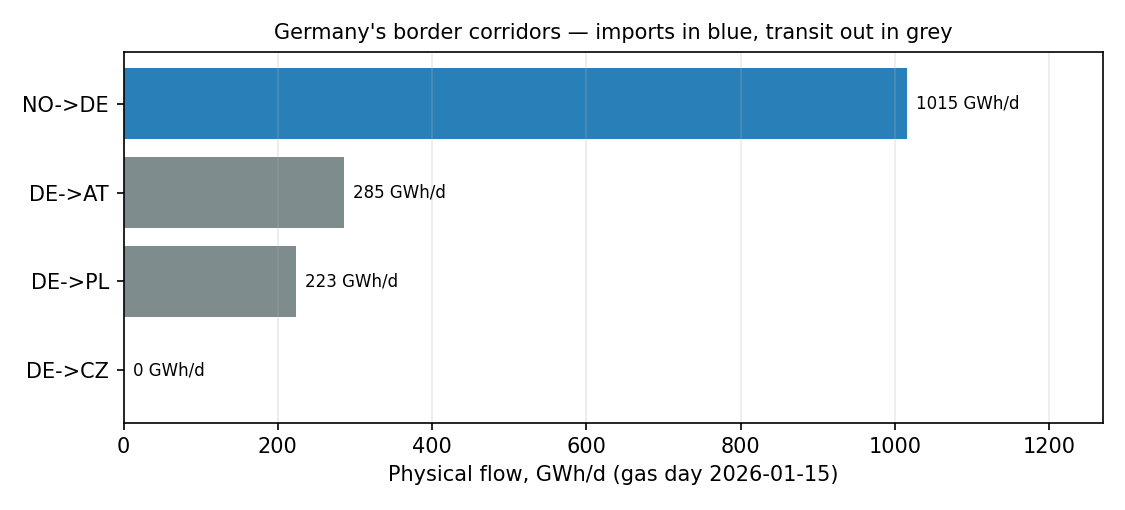
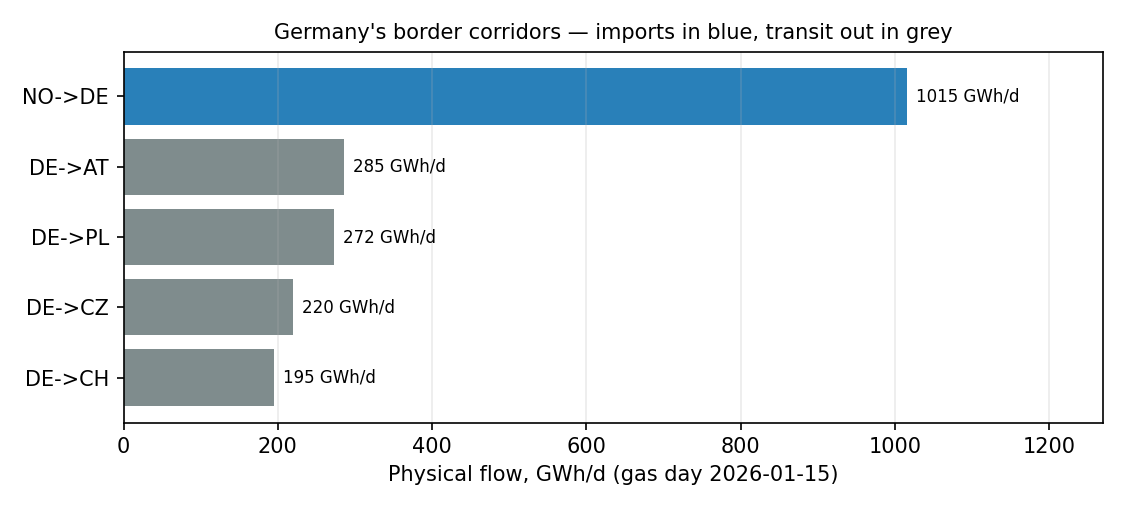
Correct the network layer: fetch and verify flow for every German border point (VIP Brandov 220, GCP/ONTRAS 100% firm, Germany-CH 195 were mislabelled as no-flow); rebuild map, corridors, RESULTS and RESEARCH; Germany reframed as a re-export hub

Changed region(s): [[0.0311, 0.2353, 0.8089, 0.7941], [0.8089, 0.1765, 0.9022, 0.2353], [0.0, 0.1765, 0.0933, 0.2353]]

diff --git a/src/network_chart.py b/src/network_chart.py
@@ -37,64 +37,31 @@ def _declutter(ys, min_gap, lo, hi):
 
 def draw():
     snap = entsog.snapshot()
-    fig, ax = plt.subplots(figsize=(11, 8.5))
+    fig, ax = plt.subplots(figsize=(10.5, 8))
 
-    # ---- unmetered interconnection points ----
-    # A leader line is only used where a point is crowded (another point within CROWD
-    # units); isolated points that have room are labelled directly, no line.
-    topo = snap["topology"]
-    all_pts = [(q["x"], q["y"]) for q in topo] + [(q["x"], q["y"]) for q in snap["points"]]
-
-    def _crowded(px, py):
-        near = 0
-        for qx, qy in all_pts:
-            if (qx, qy) == (px, py):
-                continue
-            if abs(qx - px) < CROWD and abs(qy - py) < CROWD:
-                near += 1
-        return near > 0
-
-    for q in topo:
-        ax.scatter(q["x"], q["y"], s=24, facecolor="none", edgecolor="#b0b0b0",
-                   linewidth=.9, zorder=2)
-
-    crowded = [q for q in topo if _crowded(q["x"], q["y"])]
-    loose = [q for q in topo if not _crowded(q["x"], q["y"])]
-
-    # isolated points: label in place, no leader line
-    for q in loose:
-        ax.annotate(q["label"], xy=(q["x"], q["y"]), xytext=(6, -2),
-                    textcoords="offset points", fontsize=6.5, color="#7a7a7a", va="center")
-
-    # crowded points: pull labels to a decluttered column on the nearer side, with a line
-    left = sorted([q for q in crowded if q["x"] <= -25], key=lambda q: q["y"])
-    right = sorted([q for q in crowded if q["x"] > -25], key=lambda q: q["y"])
-    ly = _declutter([q["y"] for q in left], 3.6, -46, 16)
-    ry = _declutter([q["y"] for q in right], 3.6, -46, 16)
-    for grp, ys, lx, ha in ((left, ly, -60.5, "right"), (right, ry, 6.5, "left")):
-        for q, y in zip(grp, ys):
-            ax.annotate(q["label"], xy=(q["x"], q["y"]), xytext=(lx, y),
-                        fontsize=6.5, color="#7a7a7a", va="center", ha=ha,
-                        arrowprops=dict(arrowstyle="-", lw=0.5, color="#c8c8c8",
-                                        shrinkA=0, shrinkB=2))
-
-    # ---- metered points: coloured, sized by flow, with the flow arrow ----
-    for p in snap["points"]:
+    pts = snap["points"]
+    # spread labels vertically where points sit on top of each other
+    ys = _declutter([p["y"] for p in pts], 3.2, -46, 16)
+    for p, ytxt in zip(pts, ys):
         st = N.classify(p)
         flow = p["physical_flow"] / 1e6
-        ax.scatter(p["x"], p["y"], s=45 + flow * 1.1, color=COL[st], alpha=.9,
+        ax.scatter(p["x"], p["y"], s=55 + flow * 1.1, color=COL[st], alpha=.9,
                    edgecolor="white", linewidth=1.2, zorder=4)
         u = N.utilisation(p)
         if flow > 0:
-            lab = "%s\n%.0f GWh/d%s" % (p["label"], flow,
-                                        ("  ·  %.0f%% of firm" % (u * 100)) if u else "")
+            head = "%s  →%s\n%.0f GWh/d%s" % (p["label"], p["to"], flow,
+                    ("  ·  %.0f%% of firm" % (u * 100)) if u else "  ·  no firm published")
         else:
-            lab = "%s\nidle — 0 GWh/d" % p["label"]     # do not imply a flow it does not carry
-        ax.annotate(lab, (p["x"], p["y"]), fontsize=8, fontweight="bold",
-                    xytext=OFFSET.get(p["label"], (9, 6)),
-                    textcoords="offset points", zorder=6,
-                    bbox=dict(boxstyle="round,pad=0.15", fc="white", ec="none", alpha=0.8))
-        # flow arrow only where gas actually moves
+            head = "%s  →%s\nidle — 0 GWh/d" % (p["label"], p["to"])
+        # label to the side, with a short leader line only when it had to be nudged
+        dx = 12 if p["x"] > -30 else 12
+        ax.annotate(head, xy=(p["x"], p["y"]),
+                    xytext=(p["x"] + (2.5 if p["x"] > -30 else 2.5), ytxt),
+                    fontsize=7.5, fontweight="bold", va="center",
+                    bbox=dict(boxstyle="round,pad=0.15", fc="white", ec="none", alpha=0.8),
+                    arrowprops=dict(arrowstyle="-", lw=0.5, color="#bbbbbb",
+                                    shrinkA=0, shrinkB=3) if abs(ytxt - p["y"]) > 1.5 else None,
+                    zorder=6)
         if flow > 0:
             ax.annotate("", xy=(p["x"], p["y"]),
                         xytext=(p["x"] - (7 if p["direction"] == "entry" else -7), p["y"]),
@@ -102,17 +69,15 @@ def draw():
                         zorder=3)
 
     ax.set_title("Germany's gas border on the peak winter gas day %s\n"
-                 "ENTSOG Transparency Platform — physical flow vs firm technical capacity"
-                 % snap["_gas_day"], fontsize=11)
+                 "ENTSOG Transparency Platform — physical flow vs firm technical capacity "
+                 "(every point verified)" % snap["_gas_day"], fontsize=11)
     ax.set_xlabel("← west          ENTSOG schematic map coordinates          east →", fontsize=8)
     ax.set_ylabel("← south                                      north →", fontsize=8)
     handles = [plt.Line2D([], [], marker="o", ls="", color=c, label=k, markersize=8)
                for k, c in COL.items()]
-    handles.append(plt.Line2D([], [], marker="o", ls="", mfc="none", mec="#b0b0b0",
-                              label="other point (no metered flow)", markersize=8))
-    ax.legend(handles=handles, fontsize=7.5, loc="center left", bbox_to_anchor=(0.30, 0.60),
+    ax.legend(handles=handles, fontsize=7.5, loc="center left", bbox_to_anchor=(0.02, 0.30),
               title="status", title_fontsize=8, framealpha=0.9)
-    ax.grid(alpha=.2); ax.set_xlim(-62, 12); ax.set_ylim(-46, 18)
+    ax.grid(alpha=.2); ax.set_xlim(-56, 14); ax.set_ylim(-46, 16)
     fig.tight_layout(); fig.savefig(os.path.join(OUT, "network_map.png"), dpi=150); plt.close(fig)
 
 

diff --git a/src/report.py b/src/report.py
@@ -183,11 +183,18 @@ def main():
              "firm capacity — 162%% and 139%% respectively. That extra volume is interruptible or "
              "additional capacity: contractually curtailable, not guaranteed. The single-corridor "
              "concentration is the bottleneck, not the pipe diameter.\n" % c["NO->DE"])
-    L.append("Meanwhile **VIP Waidhaus sits at zero** — the Czech route that used to carry Russian gas "
-             "into Bavaria is idle, and **Mallnow now runs west-to-east at 86% of firm**, exporting to "
-             "Poland instead of importing from it. The map of 2019 has been redrawn: the load has moved "
-             "from the eastern border to the North Sea coast, and the eastern points are now transit and "
-             "reverse-flow assets.\n")
+    # export corridors, computed from the same data
+    exp = {k: v for k, v in c.items() if k.startswith("DE->")}
+    exp_line = ", ".join("**%s %.0f GWh/d**" % (k.replace("DE->", "to "), v)
+                         for k, v in sorted(exp.items(), key=lambda kv: -kv[1]))
+    L.append("The same day the map of 2019 is visibly redrawn on the export side: %s. **Mallnow now "
+             "runs west-to-east** (exporting to Poland at 86%% of firm, no longer importing), and "
+             "**VIP Waidhaus — the old Russian route into Bavaria — sits at exactly zero**. But the "
+             "eastern border is not dead: **VIP Brandov still carries %.0f GWh/d into Czechia** and the "
+             "Polish ONTRAS point runs at its firm limit. Germany has turned from a Russian-gas "
+             "destination into a **hub that re-exports Norwegian and LNG-sourced gas** south and east — "
+             "which is exactly why its own import points run above firm.\n"
+             % (exp_line, [r for r in NW.table() if r["point"] == "VIP Brandov"][0]["flow_gwh_d"]))
 
     L.append("## 7. What this means for storage\n")
     L.append("- The swing above a flat baseline is what storage and flexible supply must cover. For the EU "

diff --git a/tests/test_adequacy.py b/tests/test_adequacy.py
@@ -252,10 +252,12 @@ def test_peak_withdrawal_rate_is_a_power_not_an_energy():
 import entsog as EG
 import network as NW
 
-def test_snapshot_has_both_metered_and_topology_points():
+def test_snapshot_points_are_all_verified():
     snap = EG.snapshot()
-    assert len(snap["points"]) >= 6 and len(snap["topology"]) >= 10
+    assert len(snap["points"]) >= 10          # every point has fetched flow AND firm capacity
     assert snap["_gas_day"] == "2026-01-15"
+    for p in snap["points"]:
+        assert "physical_flow" in p and "firm_technical" in p
 
 def test_point_direction_key_matches_entsog_format():
     assert EG.point_direction("DE-TSO-0009", "ITP-00080", "entry") == "DE-TSO-0009ITP-00080entry"
@@ -282,6 +284,8 @@ def test_norwegian_imports_dominate_the_winter_border():
     c = NW.corridors()
     assert max(c, key=c.get) == "NO->DE"
     assert c["NO->DE"] > 900                      # GWh/d on the peak winter gas day
+    # the Czech export corridor is active (VIP Brandov), not idle as a naive read suggests
+    assert c["DE->CZ"] > 150 and c["DE->CH"] > 150
 
 def test_norwegian_entry_points_run_beyond_firm_capacity():
     stressed = {r["point"] for r in NW.stressed()}

diff --git a/src/entsog.py b/src/entsog.py
@@ -51,7 +51,7 @@ def fetch_topology(from_country: str, to_country: str) -> list[dict]:
                           {"fromCountryKey": from_country, "toCountryKey": to_country}))
     except Exception:
         snap = snapshot()
-        return [p for p in snap["topology"] + snap["points"]
+        return [p for p in snap["points"]
                 if p.get("from") == from_country and p.get("to") == to_country]
     out = []
     for r in rows:
@@ -97,8 +97,8 @@ def fetch_flows(point_directions: list[str], gas_day: str,
 
 if __name__ == "__main__":
     snap = snapshot()
-    print("bundled snapshot: gas day %s, %d metered points, %d topology points"
-          % (snap["_gas_day"], len(snap["points"]), len(snap["topology"])))
+    print("bundled snapshot: gas day %s, %d verified metered points"
+          % (snap["_gas_day"], len(snap["points"])))
     for p in snap["points"]:
         print("  %-22s %s->%s  flow %8.1f GWh/d  firm %8.1f GWh/d"
               % (p["label"], p["from"], p["to"],

diff --git a/src/research.py b/src/research.py
@@ -326,8 +326,10 @@ def main():
       "Belgium, against %.0f%% for Germany — a dependency invisible to any storage-fill target.\n"
       % tuple(([r for r in LNG.flexibility_table() if r["code"] == c][0]["lng_share"] * 100)
               for c in ("ES", "BE", "DE")))
-    A("7. **The import side is now concentrated and partly non-firm.** Norway into two German coastal "
-      "points, above firm capacity, while the eastern routes sit idle or reversed.\n")
+    A("7. **Germany has become a re-export hub, and its import points run above firm.** Norway lands "
+      "1,015 GWh/d at two coastal clusters (both above firm), and Germany forwards it on — Brandov to "
+      "Czechia, Oberkappel to Austria, Germany-CH to Switzerland, Mallnow reversed to Poland. The "
+      "Russian-era route at Waidhaus sits at zero; the load moved to the North Sea coast.\n")
     A("8. **Hydrogen does not inherit this buffer.** The same holes hold %.1fx less energy, so the "
       "seasonal margin has to be rebuilt, not converted.\n" % H.energy_loss_factor())
     A("\n---\n")

diff --git a/RESEARCH.md b/RESEARCH.md
@@ -166,9 +166,13 @@ ENTSOG, peak winter gas day **2026-01-15**. Germany imported **1015 GWh/d** from
 | Dornum / NETRA | NO->DE | 589 GWh/d | 423 GWh/d | 139% |
 | Emden (EPT1) | NO->DE | 426 GWh/d | 263 GWh/d | 162% |
 | Mallnow | DE->PL | 223 GWh/d | 259 GWh/d | 86% |
+| VIP Brandov | DE->CZ | 220 GWh/d | 347 GWh/d | 63% |
 | VIP Oberkappel | DE->AT | 217 GWh/d | 215 GWh/d | 101% |
+| VIP Germany-CH | DE->CH | 195 GWh/d | 404 GWh/d | 48% |
 | Uberackern ABG | DE->AT | 68 GWh/d | 0 GWh/d | not published |
+| GCP GAZ-SYSTEM/ONTRAS | DE->PL | 49 GWh/d | 49 GWh/d | 100% |
 | VIP Waidhaus | DE->CZ | 0 GWh/d | 0 GWh/d | not published |
+| Uberackern SUDAL | DE->AT | 0 GWh/d | 0 GWh/d | not published |
 
 The bottleneck is not pipe diameter. It is **concentration**: a single sea-facing corridor now carries the load that used to arrive from three directions, and it is doing so on non-firm terms.
 
@@ -247,7 +251,7 @@ The engineering-and-strategy point is that this is a decision to be sized now, o
 
 6. **Half of southern Europe's peak day arrives by ship.** 84% for Spain, 81% for Belgium, against 14% for Germany — a dependency invisible to any storage-fill target.
 
-7. **The import side is now concentrated and partly non-firm.** Norway into two German coastal points, above firm capacity, while the eastern routes sit idle or reversed.
+7. **Germany has become a re-export hub, and its import points run above firm.** Norway lands 1,015 GWh/d at two coastal clusters (both above firm), and Germany forwards it on — Brandov to Czechia, Oberkappel to Austria, Germany-CH to Switzerland, Mallnow reversed to Poland. The Russian-era route at Waidhaus sits at zero; the load moved to the North Sea coast.
 
 8. **Hydrogen does not inherit this buffer.** The same holes hold 4.2x less energy, so the seasonal margin has to be rebuilt, not converted.
 

diff --git a/RESULTS.md b/RESULTS.md
@@ -170,9 +170,13 @@ Source: **ENTSOG Transparency Platform** (`transparency.entsog.eu/api/v1`, open,
 | Dornum / NETRA | OGE | NO->DE | 589 | 423 | 139% | above firm — running on non-firm capacity |
 | Emden (EPT1) | OGE | NO->DE | 426 | 263 | 162% | above firm — running on non-firm capacity |
 | Mallnow | GASCADE | DE->PL | 223 | 259 | 86% | at the firm limit |
+| VIP Brandov | GASCADE | DE->CZ | 220 | 347 | 63% | spare firm capacity |
 | VIP Oberkappel | OGE | DE->AT | 217 | 215 | 101% | above firm — running on non-firm capacity |
+| VIP Germany-CH | Fluxys TENP | DE->CH | 195 | 404 | 48% | spare firm capacity |
 | Uberackern ABG | OGE | DE->AT | 68 | 0 | — | no firm capacity published |
+| GCP GAZ-SYSTEM/ONTRAS | ONTRAS | DE->PL | 49 | 49 | 100% | above firm — running on non-firm capacity |
 | VIP Waidhaus | OGE | DE->CZ | 0 | 0 | — | idle |
+| Uberackern SUDAL | bayernets | DE->AT | 0 | 0 | — | idle |
 
 ![Network map](results/network_map.png)
 
@@ -180,7 +184,7 @@ Source: **ENTSOG Transparency Platform** (`transparency.entsog.eu/api/v1`, open,
 
 **Conclusion.** On a peak winter day Germany pulls **1015 GWh/d** in from Norway through just two point clusters, Emden and Dornum, and both are running *above* their published firm capacity — 162% and 139% respectively. That extra volume is interruptible or additional capacity: contractually curtailable, not guaranteed. The single-corridor concentration is the bottleneck, not the pipe diameter.
 
-Meanwhile **VIP Waidhaus sits at zero** — the Czech route that used to carry Russian gas into Bavaria is idle, and **Mallnow now runs west-to-east at 86% of firm**, exporting to Poland instead of importing from it. The map of 2019 has been redrawn: the load has moved from the eastern border to the North Sea coast, and the eastern points are now transit and reverse-flow assets.
+The same day the map of 2019 is visibly redrawn on the export side: **to AT 285 GWh/d**, **to PL 272 GWh/d**, **to CZ 220 GWh/d**, **to CH 195 GWh/d**. **Mallnow now runs west-to-east** (exporting to Poland at 86% of firm, no longer importing), and **VIP Waidhaus — the old Russian route into Bavaria — sits at exactly zero**. But the eastern border is not dead: **VIP Brandov still carries 220 GWh/d into Czechia** and the Polish ONTRAS point runs at its firm limit. Germany has turned from a Russian-gas destination into a **hub that re-exports Norwegian and LNG-sourced gas** south and east — which is exactly why its own import points run above firm.
 
 ## 7. What this means for storage
 

diff --git a/README.md b/README.md
@@ -167,7 +167,7 @@ pipeline and embedded with its full explanation in **[RESEARCH.md](RESEARCH.md)*
 | What about data centres? | **≈20 TWh of electricity** in Germany (2024) → 25-37 TWh by 2030 — a power load, not a gas load | [RESULTS §4](RESULTS.md) |
 | What refills the swing? | EU injected **557 TWh** Apr-Oct 2025, withdrew **667 TWh** in winter; peak month **270 GW** | [RESULTS §5](RESULTS.md) |
 | Where are the bottlenecks? | Deliverability (Germany **74 GW** peak) and five gas-consuming countries with **zero** storage | [RESULTS §5](RESULTS.md) |
-| Where does the network bind? | Norway sends **1,015 GWh/d** into Germany on a peak winter day through two point clusters, both **above firm capacity** (162% / 139%); Waidhaus idle, Mallnow reversed | [RESULTS §6](RESULTS.md) |
+| Where does the network bind? | Norway lands **1,015 GWh/d** at two coastal points, both **above firm capacity** (162% / 139%); Germany re-exports it — **CZ 220, AT 285, PL 272, CH 195 GWh/d** — while the Russian-era Waidhaus route sits at zero | [RESULTS §6](RESULTS.md) |
 | How much margin is in the storage fleet? | EU **1,130 TWh** working volume, **20.0 TWh/d** out but only **12.3 TWh/d** in — 56 days to empty, 92 to refill | [RESEARCH L4](RESEARCH.md) |
 | Which winters were tight? | 2025/26 peaked at **83% full** — weakest since 2019; every other year hit 88–99% | [RESEARCH L4](RESEARCH.md) |
 | Who ran out of *rate*, not gas? | **Belgium 96%, Portugal 96%, Croatia 90%** of their own withdrawal capacity on the peak day; Germany only 47% | [RESEARCH L4](RESEARCH.md) |